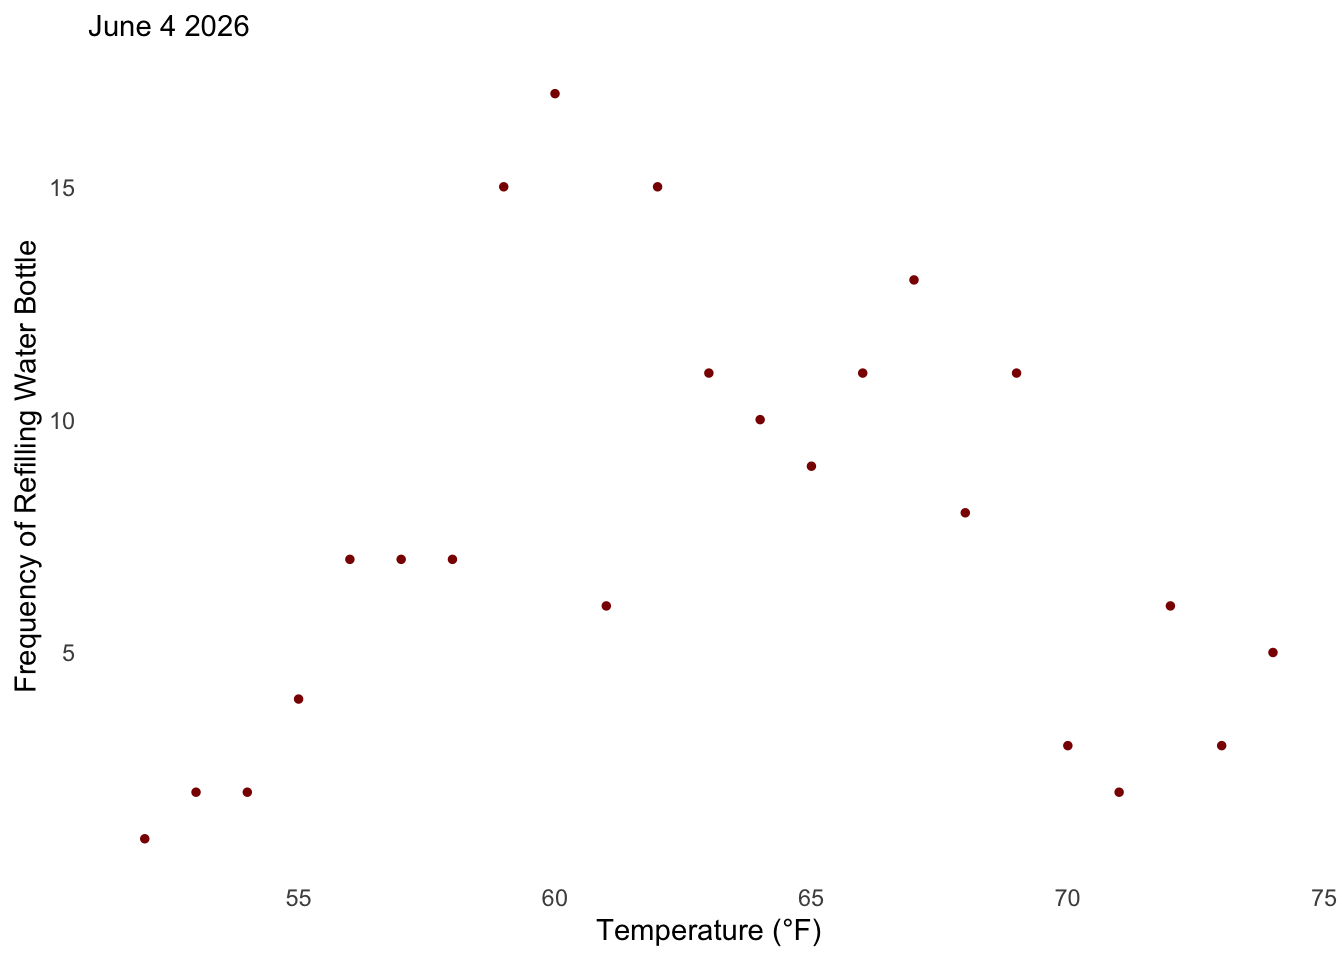
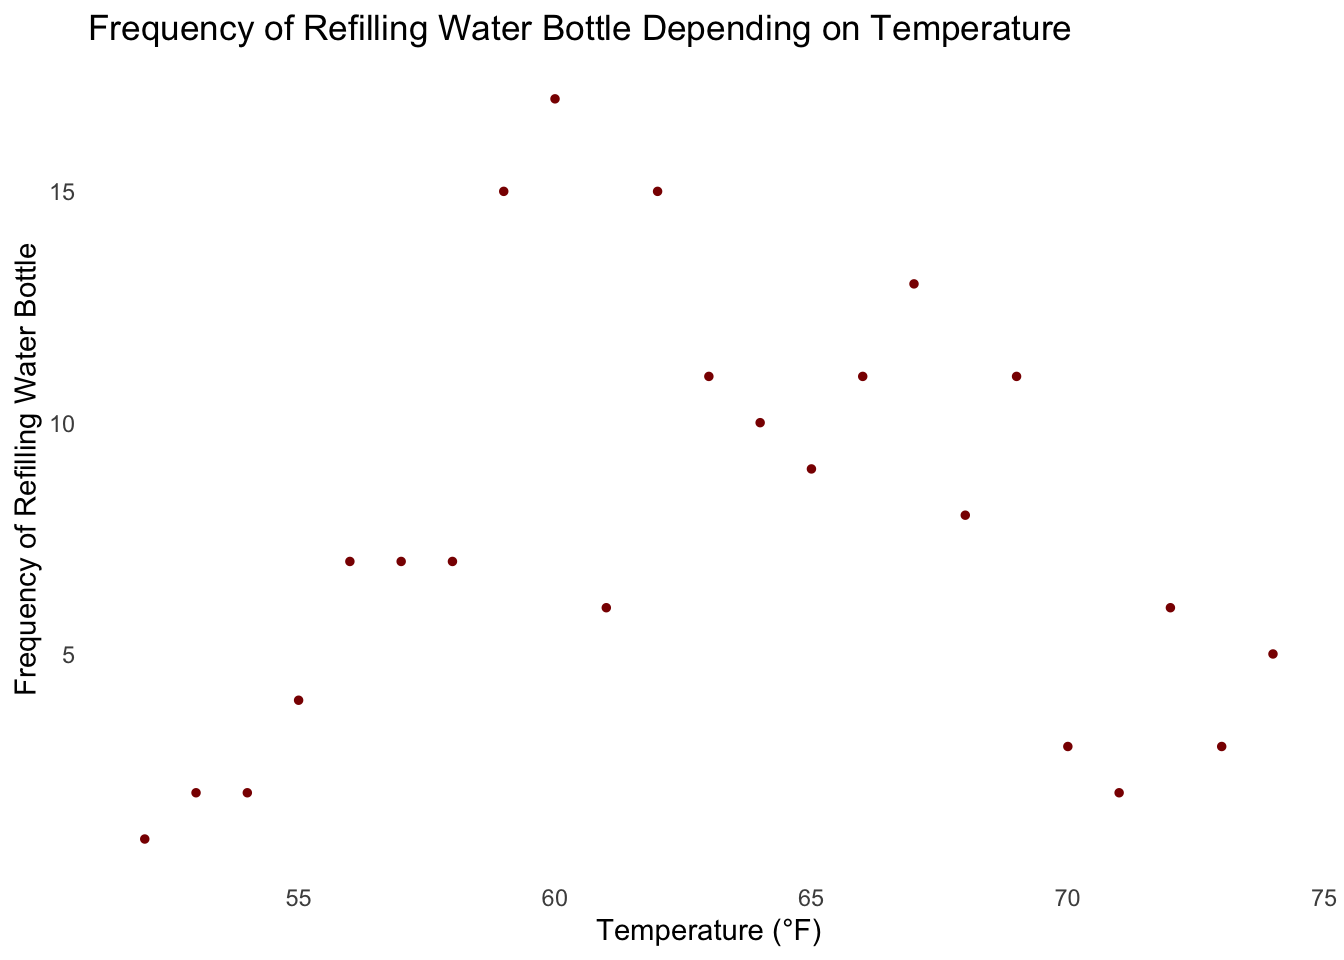
updated code project.

Changed region(s): [[0.0625, 0.0, 0.7812, 0.0625], [0.0, 0.25, 0.0312, 0.7188], [0.0312, 0.1875, 0.0625, 0.2188]]

diff --git a/docs/posts/2026-06-04-code-post/index.html b/docs/posts/2026-06-04-code-post/index.html
@@ -241,16 +241,14 @@ pre > code.sourceCode > span > a:first-child::before { text-decoration: underlin
 <span id="cb2-9"><a href="#cb2-9" aria-hidden="true" tabindex="-1"></a><span class="co">#changed the label for y-axis: Frequency of Refilling Water Bottle        </span></span>
 <span id="cb2-10"><a href="#cb2-10" aria-hidden="true" tabindex="-1"></a>       <span class="at">y =</span> <span class="st">"Frequency of Refilling Water Bottle"</span>,</span>
 <span id="cb2-11"><a href="#cb2-11" aria-hidden="true" tabindex="-1"></a><span class="co">#added a title to the bar chart        </span></span>
-<span id="cb2-12"><a href="#cb2-12" aria-hidden="true" tabindex="-1"></a>       <span class="at">title =</span> <span class="st">"Frequency of Refilling Water Bottle Based on Weather"</span>,</span>
-<span id="cb2-13"><a href="#cb2-13" aria-hidden="true" tabindex="-1"></a><span class="co">#added a subtitle</span></span>
-<span id="cb2-14"><a href="#cb2-14" aria-hidden="true" tabindex="-1"></a><span class="at">subtitle =</span> <span class="st">"June 4 May 2026"</span>) <span class="sc">+</span></span>
-<span id="cb2-15"><a href="#cb2-15" aria-hidden="true" tabindex="-1"></a><span class="co">#used a different theme from default  </span></span>
-<span id="cb2-16"><a href="#cb2-16" aria-hidden="true" tabindex="-1"></a>  <span class="fu">theme_minimal</span>() <span class="sc">+</span></span>
-<span id="cb2-17"><a href="#cb2-17" aria-hidden="true" tabindex="-1"></a><span class="co">#removed panel background  </span></span>
-<span id="cb2-18"><a href="#cb2-18" aria-hidden="true" tabindex="-1"></a>  <span class="fu">theme</span>(<span class="at">panel.background =</span> <span class="fu">element_blank</span>()) <span class="sc">+</span> </span>
-<span id="cb2-19"><a href="#cb2-19" aria-hidden="true" tabindex="-1"></a><span class="co">#removed major and minor gridlines   </span></span>
-<span id="cb2-20"><a href="#cb2-20" aria-hidden="true" tabindex="-1"></a>  <span class="fu">theme</span>(<span class="at">panel.grid.major =</span> <span class="fu">element_blank</span>(),</span>
-<span id="cb2-21"><a href="#cb2-21" aria-hidden="true" tabindex="-1"></a>        <span class="at">panel.grid.minor =</span> <span class="fu">element_blank</span>()) </span></code></pre></div><button title="Copy to Clipboard" class="code-copy-button"><i class="bi"></i></button></div>
+<span id="cb2-12"><a href="#cb2-12" aria-hidden="true" tabindex="-1"></a>       <span class="at">title =</span> <span class="st">"Frequency of Refilling Water Bottle Based on Weather"</span>) <span class="sc">+</span></span>
+<span id="cb2-13"><a href="#cb2-13" aria-hidden="true" tabindex="-1"></a><span class="co">#used a different theme from default  </span></span>
+<span id="cb2-14"><a href="#cb2-14" aria-hidden="true" tabindex="-1"></a>  <span class="fu">theme_minimal</span>() <span class="sc">+</span></span>
+<span id="cb2-15"><a href="#cb2-15" aria-hidden="true" tabindex="-1"></a><span class="co">#removed panel background  </span></span>
+<span id="cb2-16"><a href="#cb2-16" aria-hidden="true" tabindex="-1"></a>  <span class="fu">theme</span>(<span class="at">panel.background =</span> <span class="fu">element_blank</span>()) <span class="sc">+</span> </span>
+<span id="cb2-17"><a href="#cb2-17" aria-hidden="true" tabindex="-1"></a><span class="co">#removed major and minor gridlines   </span></span>
+<span id="cb2-18"><a href="#cb2-18" aria-hidden="true" tabindex="-1"></a>  <span class="fu">theme</span>(<span class="at">panel.grid.major =</span> <span class="fu">element_blank</span>(),</span>
+<span id="cb2-19"><a href="#cb2-19" aria-hidden="true" tabindex="-1"></a>        <span class="at">panel.grid.minor =</span> <span class="fu">element_blank</span>()) </span></code></pre></div><button title="Copy to Clipboard" class="code-copy-button"><i class="bi"></i></button></div>
 <div class="cell-output-display">
 <div>
 <figure class="figure">
@@ -268,10 +266,10 @@ pre > code.sourceCode > span > a:first-child::before { text-decoration: underlin
 <span id="cb3-4"><a href="#cb3-4" aria-hidden="true" tabindex="-1"></a>       <span class="at">mapping =</span> <span class="fu">aes</span>(<span class="at">x =</span> temperature_f)) <span class="sc">+</span></span>
 <span id="cb3-5"><a href="#cb3-5" aria-hidden="true" tabindex="-1"></a><span class="co">#develops a scatterplot for frequency response variables, which can have colors</span></span>
 <span id="cb3-6"><a href="#cb3-6" aria-hidden="true" tabindex="-1"></a>  <span class="fu">geom_point</span>(<span class="at">stat =</span> <span class="st">"count"</span>, <span class="at">color =</span> <span class="st">"darkred"</span>, <span class="at">size =</span> <span class="dv">1</span>) <span class="sc">+</span> </span>
-<span id="cb3-7"><a href="#cb3-7" aria-hidden="true" tabindex="-1"></a><span class="co">#relabel x- and y-axes, added a subtitle</span></span>
+<span id="cb3-7"><a href="#cb3-7" aria-hidden="true" tabindex="-1"></a><span class="co">#relabel x- and y-axes, added a title</span></span>
 <span id="cb3-8"><a href="#cb3-8" aria-hidden="true" tabindex="-1"></a>  <span class="fu">labs</span>(<span class="at">x =</span> <span class="st">"Temperature (°F)"</span>,</span>
 <span id="cb3-9"><a href="#cb3-9" aria-hidden="true" tabindex="-1"></a>       <span class="at">y =</span> <span class="st">"Frequency of Refilling Water Bottle"</span>,</span>
-<span id="cb3-10"><a href="#cb3-10" aria-hidden="true" tabindex="-1"></a>       <span class="at">subtitle =</span> <span class="st">"June 4 2026"</span>) <span class="sc">+</span> </span>
+<span id="cb3-10"><a href="#cb3-10" aria-hidden="true" tabindex="-1"></a>       <span class="at">title =</span> <span class="st">"Frequency of Refilling Water Bottle Depending on Temperature"</span>) <span class="sc">+</span> </span>
 <span id="cb3-11"><a href="#cb3-11" aria-hidden="true" tabindex="-1"></a><span class="co">#changed theme from default  </span></span>
 <span id="cb3-12"><a href="#cb3-12" aria-hidden="true" tabindex="-1"></a>  <span class="fu">theme_minimal</span>()<span class="sc">+</span></span>
 <span id="cb3-13"><a href="#cb3-13" aria-hidden="true" tabindex="-1"></a><span class="co">#removed panel background  </span></span>

diff --git a/docs/f1-racetracks.html b/docs/f1-racetracks.html
@@ -237,8 +237,8 @@ pre > code.sourceCode > span > a:first-child::before { text-decoration: underlin
 <span id="cb1-34"><a href="#cb1-34" aria-hidden="true" tabindex="-1"></a>    <span class="at">popup =</span> <span class="sc">~</span><span class="fu">paste</span>(<span class="st">"&lt;b&gt;"</span>, Track, <span class="st">"&lt;/b&gt;&lt;br&gt;"</span>, City))</span></code></pre></div><button title="Copy to Clipboard" class="code-copy-button"><i class="bi"></i></button></div>
 </details>
 <div class="cell-output-display">
-<div class="leaflet html-widget html-fill-item" id="htmlwidget-b467a8d2dd6a8a845ab0" style="width:100%;height:464px;"></div>
-<script type="application/json" data-for="htmlwidget-b467a8d2dd6a8a845ab0">{"x":{"options":{"crs":{"crsClass":"L.CRS.EPSG3857","code":null,"proj4def":null,"projectedBounds":null,"options":{}}},"calls":[{"method":"addProviderTiles","args":["Esri.WorldImagery",null,null,{"errorTileUrl":"","noWrap":false,"detectRetina":false}]},{"method":"addAwesomeMarkers","args":[[-37.849,31.338,34.843,25.958,45.5,43.734,41.57,47.219,52.078,50.437,47.582,52.388,45.615,40.466,40.372,1.291,30.132,19.404,-23.703,36.114,25.49,24.467],[144.968,121.221,136.533,-80.238,-73.52200000000001,7.42,2.261,14.764,-1.016,5.971,19.248,4.544,9.281000000000001,-3.616,49.853,103.864,-97.64100000000001,-99.09,-46.699,-115.172,51.454,54.603],{"icon":"flag-checkered","markerColor":"red","iconColor":"#FFFFFF","spin":false,"extraClasses":"fa-inverse","squareMarker":false,"iconRotate":0,"font":"monospace","prefix":"fa"},null,null,{"interactive":true,"draggable":false,"keyboard":true,"title":"","alt":"","zIndexOffset":0,"opacity":1,"riseOnHover":false,"riseOffset":250},["<b> Albert Park Circuit <\/b><br> Melbourne, Australia","<b> Shanghai International Circuit <\/b><br> Shanghai, China","<b> Suzuka Circuit <\/b><br> Suzuka, Japan","<b> Miami International Autodrome <\/b><br> Miami Gardens, U.S.","<b> Circuit Gilles Villeneuve <\/b><br> Montreal, Canada","<b> Circuit de Monaco <\/b><br> Monte Carlo, Monaco","<b> Circuit de Barcelona-Catalunya <\/b><br> Montmelo, Spain","<b> Red Bull Ring <\/b><br> Spielberg, Austria","<b> Silverstone Circuit <\/b><br> Silverstone, U.K.","<b> Circuit de Spa-Francorchamps <\/b><br> Stavelot, Belgium","<b> Hungaroring <\/b><br> Mogyorod, Hungary","<b> Circuit Zandvoort <\/b><br> Zandvoort, Netherlands","<b> Monza Circuit <\/b><br> Monza, Italy","<b> Madring <\/b><br> Madrid, Spain","<b> Baku City Circuit <\/b><br> Baku, Azerbaijan","<b> Marina Bay Street Circuit <\/b><br> Singapore","<b> Circuit of the Americas <\/b><br> Austin, U.S.","<b> Autodromo Hermanos Rodriguez <\/b><br> Mexico City, Mexico","<b> Interlagos Circuit <\/b><br> Sao Paulo, Brazil","<b> Las Vegas Strip Circuit <\/b><br> Paradise, U.S.","<b> Lusail International Circuit <\/b><br> Lusail, Qatar","<b> Yas Marina Circuit <\/b><br> Abu Dhabu, UAE"],null,null,null,null,{"interactive":false,"permanent":false,"direction":"auto","opacity":1,"offset":[0,0],"textsize":"10px","textOnly":false,"className":"","sticky":true},null]}],"limits":{"lat":[-37.849,52.388],"lng":[-115.172,144.968]}},"evals":[],"jsHooks":[]}</script>
+<div class="leaflet html-widget html-fill-item" id="htmlwidget-fe0e1a03100b10092bb7" style="width:100%;height:464px;"></div>
+<script type="application/json" data-for="htmlwidget-fe0e1a03100b10092bb7">{"x":{"options":{"crs":{"crsClass":"L.CRS.EPSG3857","code":null,"proj4def":null,"projectedBounds":null,"options":{}}},"calls":[{"method":"addProviderTiles","args":["Esri.WorldImagery",null,null,{"errorTileUrl":"","noWrap":false,"detectRetina":false}]},{"method":"addAwesomeMarkers","args":[[-37.849,31.338,34.843,25.958,45.5,43.734,41.57,47.219,52.078,50.437,47.582,52.388,45.615,40.466,40.372,1.291,30.132,19.404,-23.703,36.114,25.49,24.467],[144.968,121.221,136.533,-80.238,-73.52200000000001,7.42,2.261,14.764,-1.016,5.971,19.248,4.544,9.281000000000001,-3.616,49.853,103.864,-97.64100000000001,-99.09,-46.699,-115.172,51.454,54.603],{"icon":"flag-checkered","markerColor":"red","iconColor":"#FFFFFF","spin":false,"extraClasses":"fa-inverse","squareMarker":false,"iconRotate":0,"font":"monospace","prefix":"fa"},null,null,{"interactive":true,"draggable":false,"keyboard":true,"title":"","alt":"","zIndexOffset":0,"opacity":1,"riseOnHover":false,"riseOffset":250},["<b> Albert Park Circuit <\/b><br> Melbourne, Australia","<b> Shanghai International Circuit <\/b><br> Shanghai, China","<b> Suzuka Circuit <\/b><br> Suzuka, Japan","<b> Miami International Autodrome <\/b><br> Miami Gardens, U.S.","<b> Circuit Gilles Villeneuve <\/b><br> Montreal, Canada","<b> Circuit de Monaco <\/b><br> Monte Carlo, Monaco","<b> Circuit de Barcelona-Catalunya <\/b><br> Montmelo, Spain","<b> Red Bull Ring <\/b><br> Spielberg, Austria","<b> Silverstone Circuit <\/b><br> Silverstone, U.K.","<b> Circuit de Spa-Francorchamps <\/b><br> Stavelot, Belgium","<b> Hungaroring <\/b><br> Mogyorod, Hungary","<b> Circuit Zandvoort <\/b><br> Zandvoort, Netherlands","<b> Monza Circuit <\/b><br> Monza, Italy","<b> Madring <\/b><br> Madrid, Spain","<b> Baku City Circuit <\/b><br> Baku, Azerbaijan","<b> Marina Bay Street Circuit <\/b><br> Singapore","<b> Circuit of the Americas <\/b><br> Austin, U.S.","<b> Autodromo Hermanos Rodriguez <\/b><br> Mexico City, Mexico","<b> Interlagos Circuit <\/b><br> Sao Paulo, Brazil","<b> Las Vegas Strip Circuit <\/b><br> Paradise, U.S.","<b> Lusail International Circuit <\/b><br> Lusail, Qatar","<b> Yas Marina Circuit <\/b><br> Abu Dhabu, UAE"],null,null,null,null,{"interactive":false,"permanent":false,"direction":"auto","opacity":1,"offset":[0,0],"textsize":"10px","textOnly":false,"className":"","sticky":true},null]}],"limits":{"lat":[-37.849,52.388],"lng":[-115.172,144.968]}},"evals":[],"jsHooks":[]}</script>
 </div>
 </div>
 <hr>

diff --git a/docs/projects.html b/docs/projects.html
@@ -213,7 +213,7 @@ window.Quarto = {
 
 <div class="quarto-listing quarto-listing-container-grid" id="listing-listing">
 <div class="list grid quarto-listing-cols-3">
[2 lines of base64/hex data omitted]
 <a href="./posts/2026-06-04-code-post/index.html" class="quarto-grid-link">
 <div class="quarto-grid-item card h-100 card-left">
 <p class="card-img-top">